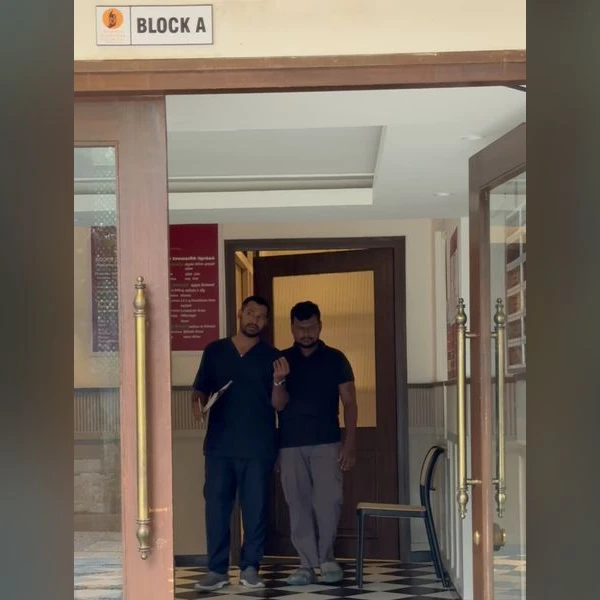
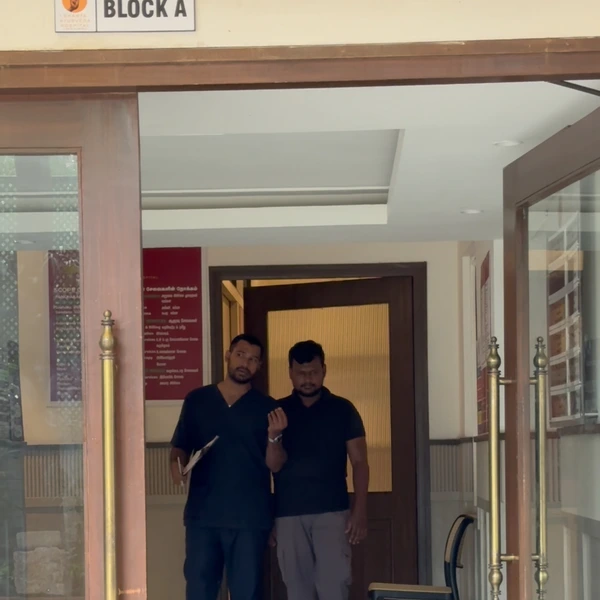
Replace blurred pillarbox backgrounds with 100% pure edge-to-edge photographic fills for all Relax, Rethink, and Rebuild nodes

diff --git a/scripts/generate_pure_nodes.js b/scripts/generate_pure_nodes.js
@@ -1,0 +1,231 @@
+const sharp = require('sharp');
+const path = require('path');
+const fs = require('fs');
+
+async function cropPureSquare({ src, extract, outPath }) {
+  const dir = path.dirname(outPath);
+  if (!fs.existsSync(dir)) fs.mkdirSync(dir, { recursive: true });
+
+  let pipe = sharp(src);
+  if (extract) {
+    pipe = pipe.extract(extract);
+  }
+
+  // Resize directly to 600x600 pure photo edge-to-edge
+  await pipe
+    .resize(600, 600, { fit: 'cover', position: 'center' })
+    .webp({ quality: 92 })
+    .toFile(outPath);
+
+  console.log(`Generated pure photo: ${path.basename(outPath)}`);
+}
+
+async function run() {
+  console.log('=== 1. GENERATING PURE RELAX NODES (Zero Blur / Edge-to-Edge) ===');
+  const relaxDir = path.join(__dirname, '../public/assets/relax/nodes');
+
+  // 1. Shirodhara
+  await cropPureSquare({
+    src: path.join(__dirname, '../public/assets/relax/shirodhara.png'),
+    extract: { left: 365, top: 0, width: 941, height: 941 },
+    outPath: path.join(relaxDir, 'node-shirodhara.webp')
+  });
+
+  // 2. Pulse Assessment
+  await cropPureSquare({
+    src: path.join(__dirname, '../public/assets/relax/pulse.jpeg'),
+    extract: { left: 0, top: 50, width: 900, height: 900 },
+    outPath: path.join(relaxDir, 'node-pulse.webp')
+  });
+
+  // 3. Podikizhi (Herbal Oil Scalp & Body Massage)
+  await cropPureSquare({
+    src: path.join(__dirname, '../public/assets/relax/Podikizhi.png'),
+    extract: { left: 0, top: 350, width: 1080, height: 1080 },
+    outPath: path.join(relaxDir, 'node-podikizhi.webp')
+  });
+
+  // 4. Cupping Decompression
+  await cropPureSquare({
+    src: path.join(__dirname, '../public/assets/relax/cupping.jpg'),
+    extract: { left: 200, top: 0, width: 853, height: 853 },
+    outPath: path.join(relaxDir, 'node-cupping.webp')
+  });
+
+  // 5. Craniosacral Somatic Therapy
+  await cropPureSquare({
+    src: path.join(__dirname, '../public/assets/rethink/deeper-mind.jpg'),
+    extract: { left: 0, top: 380, width: 1080, height: 1080 },
+    outPath: path.join(relaxDir, 'node-craniosacral.webp')
+  });
+
+  // 6. Somatic Mat Movement
+  await cropPureSquare({
+    src: path.join(__dirname, '../Assets all/RELAX/vlcsnap-2026-08-28-12h16m43s490.png'),
+    extract: { left: 300, top: 0, width: 1080, height: 1080 },
+    outPath: path.join(relaxDir, 'node-somatic.webp')
+  });
+
+  // 7. Acupuncture / Facial Care (Therapies table with Sameer & therapist)
+  await cropPureSquare({
+    src: path.join(__dirname, '../public/assets/rebuild/therapies.jpg'),
+    extract: { left: 0, top: 250, width: 1080, height: 1080 },
+    outPath: path.join(relaxDir, 'node-acupuncture.webp')
+  });
+
+  // 8. Joint Mobilization
+  await cropPureSquare({
+    src: path.join(__dirname, '../public/assets/relax/joint-mobilization.webp'),
+    extract: { left: 0, top: 50, width: 600, height: 600 },
+    outPath: path.join(relaxDir, 'node-joint-mobilization.webp')
+  });
+
+  // 9. Sanctuary Garden Retreat
+  await cropPureSquare({
+    src: path.join(__dirname, '../public/assets/rebuild/center-sanctuary.jpg'),
+    extract: { left: 0, top: 400, width: 2160, height: 2160 },
+    outPath: path.join(relaxDir, 'node-sanctuary.webp')
+  });
+
+  // 10. Restorative Breathwork & Pranayama
+  await cropPureSquare({
+    src: path.join(__dirname, '../public/assets/rebuild/yoga-breath.jpg'),
+    extract: { left: 0, top: 280, width: 1080, height: 1080 },
+    outPath: path.join(relaxDir, 'node-yoga-breath.webp')
+  });
+
+  console.log('\n=== 2. GENERATING PURE RETHINK NODES (Zero Blur / Edge-to-Edge) ===');
+  const rethinkDir = path.join(__dirname, '../public/assets/rethink/nodes');
+
+  // 1. Screen Review / Cognitive Analysis
+  await cropPureSquare({
+    src: path.join(__dirname, '../public/assets/rebuild/0812 (2)(2).jpg'),
+    extract: { left: 0, top: 600, width: 2160, height: 2160 },
+    outPath: path.join(rethinkDir, 'node-screen-review.webp')
+  });
+
+  // 2. Mindful Journaling & Reflection
+  await cropPureSquare({
+    src: path.join(__dirname, '../public/assets/rethink/live-mindfully.jpg'),
+    extract: { left: 0, top: 240, width: 1080, height: 1080 },
+    outPath: path.join(rethinkDir, 'node-journaling.webp')
+  });
+
+  // 3. Sameer Clinical Focus (Portrait)
+  await cropPureSquare({
+    src: path.join(__dirname, '../public/assets/doctor/drsameer.jpg'),
+    extract: { left: 0, top: 280, width: 1080, height: 1080 },
+    outPath: path.join(rethinkDir, 'node-sameer-focus.webp')
+  });
+
+  // 4. New Habits & Practice
+  await cropPureSquare({
+    src: path.join(__dirname, '../public/assets/rethink/new-habits.jpg'),
+    extract: { left: 0, top: 280, width: 1080, height: 1080 },
+    outPath: path.join(rethinkDir, 'node-habits.webp')
+  });
+
+  // 5. Foot Reflexology Diagnostic
+  await cropPureSquare({
+    src: path.join(__dirname, '../public/assets/relax/Foot Reflexology.jpg'),
+    extract: { left: 0, top: 240, width: 1080, height: 1080 },
+    outPath: path.join(rethinkDir, 'node-reflexology.webp')
+  });
+
+  // 6. Craniosacral Somatic Release
+  await cropPureSquare({
+    src: path.join(__dirname, '../public/assets/rethink/deeper-mind.jpg'),
+    extract: { left: 0, top: 380, width: 1080, height: 1080 },
+    outPath: path.join(rethinkDir, 'node-craniosacral.webp')
+  });
+
+  // 7. Balcony Somatic Rest
+  {
+    const balconyPath = path.join(rethinkDir, 'node-balcony-somatic.webp');
+    const inputBuf = fs.readFileSync(balconyPath);
+    const meta = await sharp(inputBuf).metadata();
+    const minDim = Math.min(meta.width, meta.height);
+    const pureBuf = await sharp(inputBuf)
+      .extract({
+        left: Math.round((meta.width - minDim) / 2),
+        top: Math.round((meta.height - minDim) / 2),
+        width: minDim,
+        height: minDim
+      })
+      .resize(600, 600)
+      .webp({ quality: 92 })
+      .toBuffer();
+    fs.writeFileSync(balconyPath, pureBuf);
+    console.log('Generated pure photo: node-balcony-somatic.webp');
+  }
+
+  // 8. 1-on-1 Consultation Dialogue
+  await cropPureSquare({
+    src: path.join(__dirname, '../public/assets/rethink/reconnect.jpg'),
+    extract: { left: 0, top: 300, width: 1080, height: 1080 },
+    outPath: path.join(rethinkDir, 'node-consultation.webp')
+  });
+
+  console.log('\n=== 3. GENERATING PURE REBUILD NODES (Zero Blur / Edge-to-Edge) ===');
+  const rebuildDir = path.join(__dirname, '../public/assets/rebuild/nodes');
+
+  // 1. Block A Entrance
+  await cropPureSquare({
+    src: path.join(__dirname, '../public/assets/rebuild/0812 (2)(4).jpg'),
+    extract: { left: 0, top: 200, width: 2160, height: 2160 },
+    outPath: path.join(rebuildDir, 'node-block-a.webp')
+  });
+
+  // 2. Therapies (Facial & Herbal Oil)
+  await cropPureSquare({
+    src: path.join(__dirname, '../public/assets/rebuild/therapies.jpg'),
+    extract: { left: 0, top: 250, width: 1080, height: 1080 },
+    outPath: path.join(rebuildDir, 'node-therapies.webp')
+  });
+
+  // 3. Shirodhara Stream
+  await cropPureSquare({
+    src: path.join(__dirname, '../public/assets/relax/shirodhara.png'),
+    extract: { left: 365, top: 0, width: 941, height: 941 },
+    outPath: path.join(rebuildDir, 'node-shirodhara.webp')
+  });
+
+  // 4. Pulse Assessment
+  await cropPureSquare({
+    src: path.join(__dirname, '../public/assets/relax/pulse.jpeg'),
+    extract: { left: 0, top: 50, width: 900, height: 900 },
+    outPath: path.join(rebuildDir, 'node-pulse-assessment.webp')
+  });
+
+  // 5. Cupping Decompression
+  await cropPureSquare({
+    src: path.join(__dirname, '../public/assets/relax/cupping.jpg'),
+    extract: { left: 200, top: 0, width: 853, height: 853 },
+    outPath: path.join(rebuildDir, 'node-cupping.webp')
+  });
+
+  // 6. Somatic Mat Movement
+  await cropPureSquare({
+    src: path.join(__dirname, '../Assets all/RELAX/vlcsnap-2026-08-28-12h16m43s490.png'),
+    extract: { left: 300, top: 0, width: 1080, height: 1080 },
+    outPath: path.join(rebuildDir, 'node-somatic-mat.webp')
+  });
+
+  // 7. Outdoor Terrace / Sanctuary Grounds
+  await cropPureSquare({
+    src: path.join(__dirname, '../public/assets/rebuild/center-sanctuary.jpg'),
+    extract: { left: 0, top: 400, width: 2160, height: 2160 },
+    outPath: path.join(rebuildDir, 'node-outdoor-terrace.webp')
+  });
+
+  // 8. Pranayama Yoga Breath
+  await cropPureSquare({
+    src: path.join(__dirname, '../public/assets/rebuild/yoga-breath.jpg'),
+    extract: { left: 0, top: 280, width: 1080, height: 1080 },
+    outPath: path.join(rebuildDir, 'node-yoga-breath.webp')
+  });
+
+  console.log('\nAll nodes for RELAX, RETHINK, and REBUILD successfully generated with 100% pure photographic fill and zero blur gaps!');
+}
+
+run().catch(console.error);
